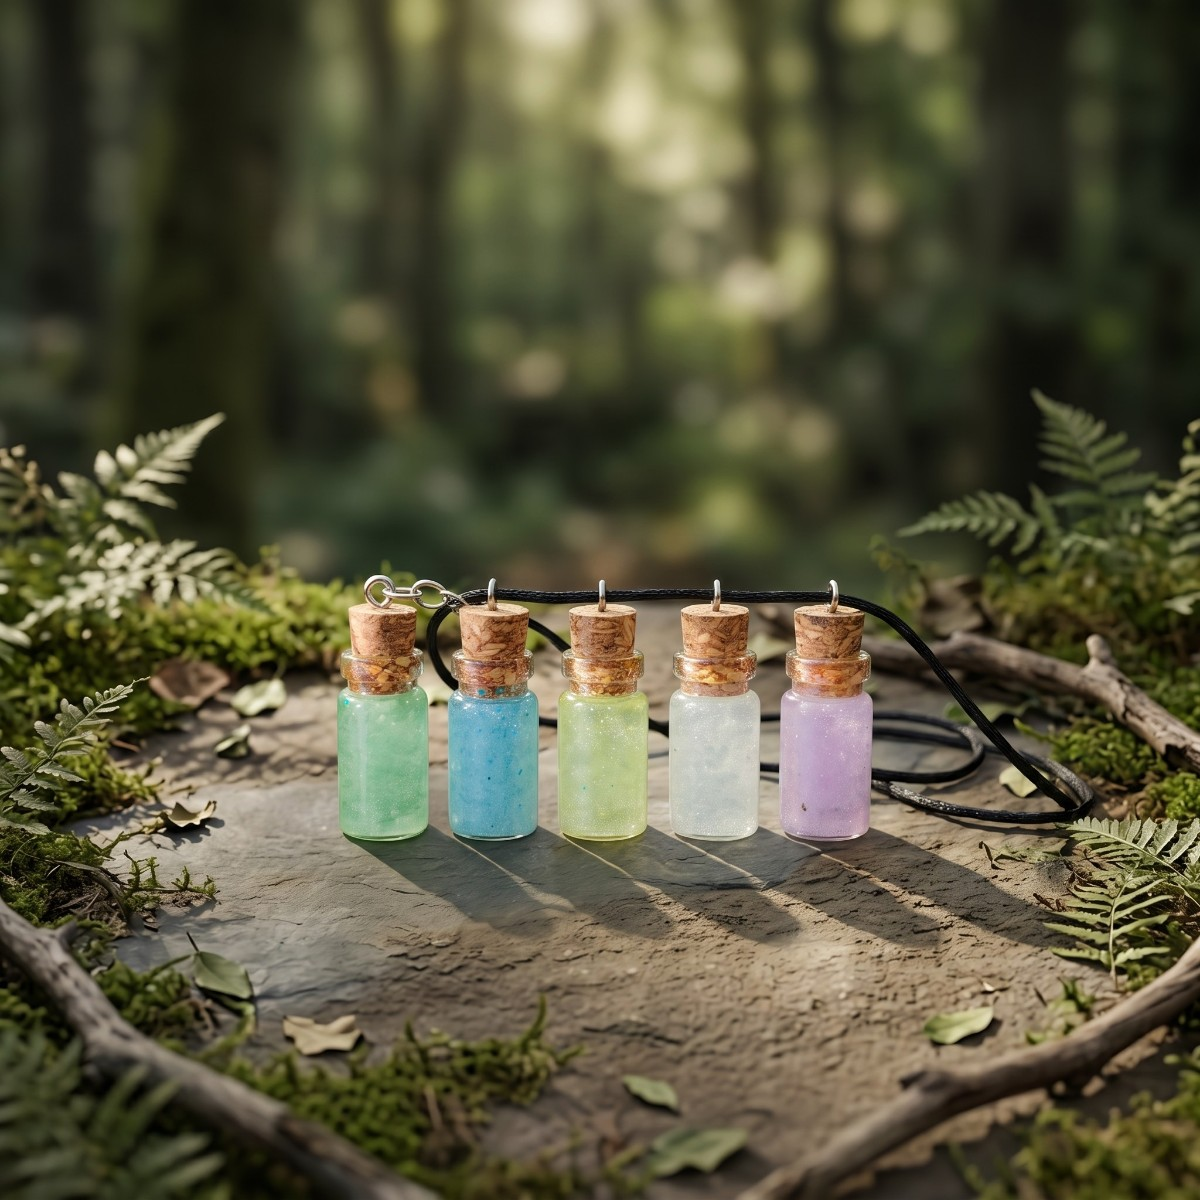
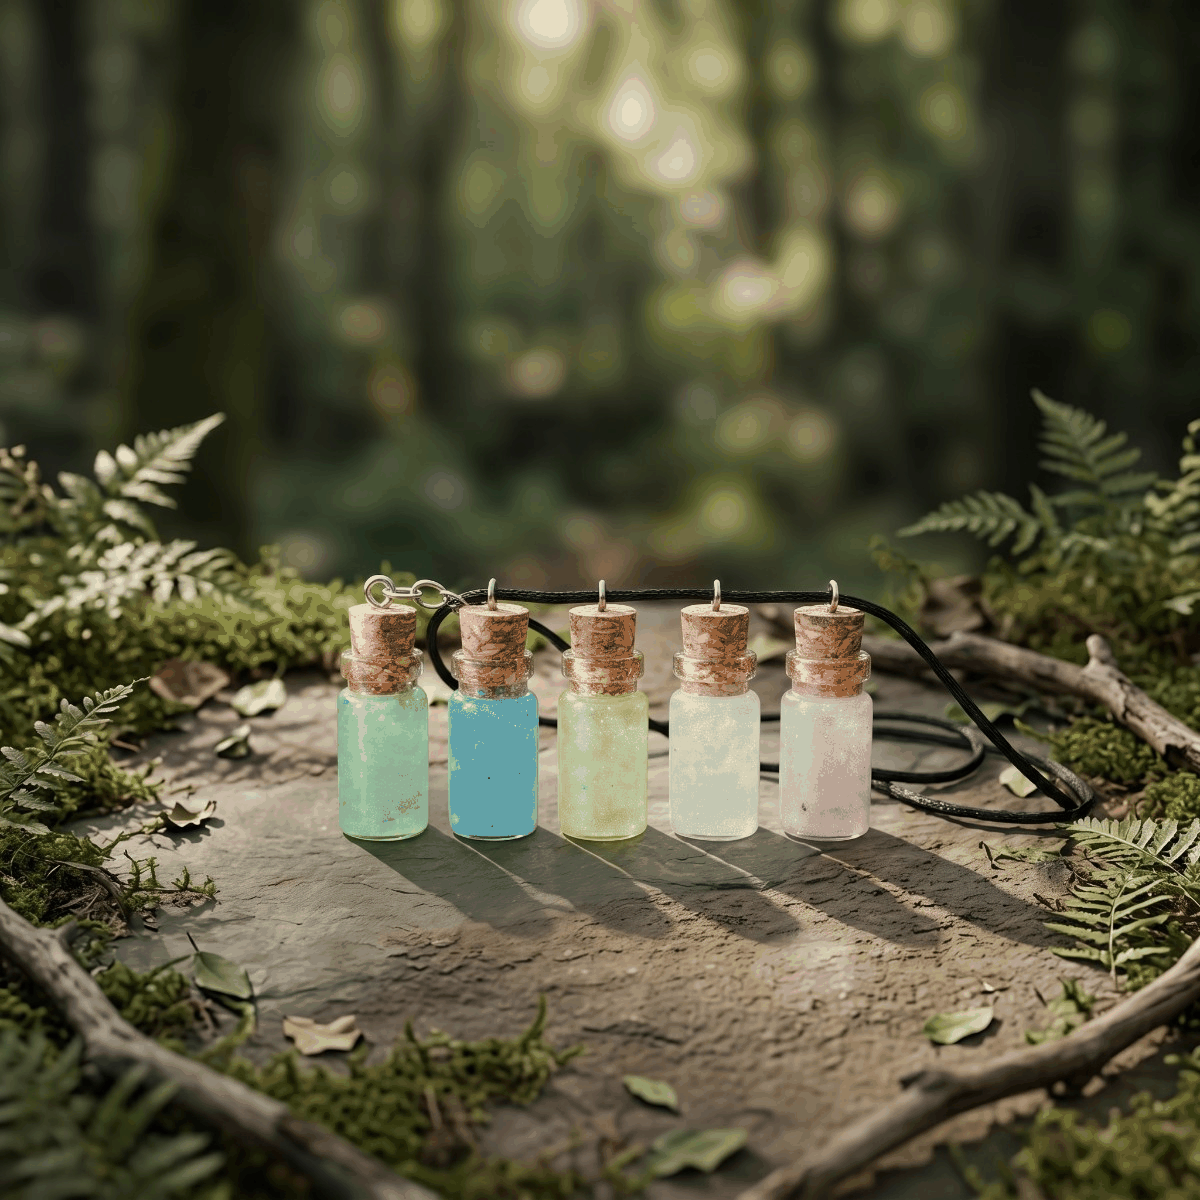
Add files via upload

diff --git a/js/render.js b/js/render.js
@@ -116,6 +116,19 @@ function mediaInicioHTML(seccion, alt){
 function aplicarCabeceraCategoria(id,clave){const d=INICIO&&INICIO[clave];const img=document.getElementById(id);if(!img||!d||!d.imagen)return;img.src=d.imagen;if(d.alt)img.alt=d.alt;}
 // Aviso del huerto (Infusiones / Inciensos / Plantas): enseña la primera FOTO de «Huerto» (panel > Inicio) si existe.
 function aplicarAvisoHuerto(){const a=document.getElementById('aviso-huerto');if(!a)return;const img=a.querySelector('img');if(!img)return;const lista=(INICIO&&INICIO.huerto&&Array.isArray(INICIO.huerto.media))?INICIO.huerto.media:[];const m=lista.find(x=>x&&x.src&&String(x.tipo||'imagen').toLowerCase()==='imagen');if(m){img.src=m.src;img.alt=m.alt||'Mi huerto';img.hidden=false;}else{img.hidden=true;}}
+
+// ---- Portada: bloque «Para empezar» con piezas destacadas (se eligen en el panel con «Destacar en la portada»; si hay menos de 4, se completa solo) ----
+function tarjetaDestacadaHTML(p){const est=etiquetaEstado(p.estado);return `<a class="tarjeta-producto tarjeta-destacada" href="ficha.html?id=${encodeURIComponent(p.id)}"><div class="foto imagen-tarjeta"><img src="${escHTML(imagenProducto(p))}" alt="${escHTML(altProducto(p))}" loading="lazy">${est?`<span class="etiqueta etiqueta-disponible">${escHTML(est)}</span>`:''}</div><div class="info info-tarjeta"><h3>${escHTML(p.nombre||'Producto')}</h3><p class="precio">${precioTexto(p)}</p></div></a>`;}
+function renderDestacados(){const c=document.getElementById('grid-destacados');if(!c)return;
+const ok=p=>p&&p.estado!=='oculto'&&imagenProducto(p)&&!/collage/i.test(imagenProducto(p))&&!['agotado','vendido','vendida'].includes(p.estado)&&p.categoria!=='infusiones'&&p.categoria!=='inciensos';
+const vis=PRODUCTOS.filter(ok);let sel=vis.filter(p=>bool(p.destacado));
+if(sel.length<4){['amuletos','botellitas','pociones','grimorios','mandala'].forEach(cat=>{const x=vis.find(p=>p.categoria===cat&&!sel.includes(p));if(x&&sel.length<6)sel.push(x);});
+for(const x of vis){if(sel.length>=6)break;if(!sel.includes(x))sel.push(x);}}
+sel=sel.slice(0,6);const sec=c.closest('section');if(!sel.length){if(sec)sec.hidden=true;return;}
+c.innerHTML=sel.map(tarjetaDestacadaHTML).join('');}
+// ---- Foto en lugar del emoji en las tarjetas de categoría (usa la primera pieza publicada de cada una) ----
+function fotosCategorias(){const m={'grimorios.html':'grimorios','amuletos.html':'amuletos','pociones.html':'pociones','mandalas.html':'mandala','botellitas.html':'botellitas'};
+document.querySelectorAll('.categoria-card').forEach(a=>{const cat=m[a.getAttribute('href')];if(!cat)return;const lista=PRODUCTOS.filter(x=>(x.categoria===cat||x.categoria===cat+'s')&&x.estado!=='oculto'&&imagenProducto(x));const p=lista.find(x=>!/collage/i.test(imagenProducto(x)))||lista[0];const ic=a.querySelector('.icono');if(!p||!ic)return;const d=document.createElement('div');d.className='cat-foto';d.innerHTML=`<img src="${escHTML(imagenProducto(p))}" alt="" loading="lazy">`;ic.replaceWith(d);a.classList.add('con-foto');});}
 function renderInicio(){
   const map=[['hero','hero-media','Imagen o vídeo del taller o pieza destacada'],['hecho_a_mano','manos-media','Manos trabajando la arcilla'],['personalizacion','personalizacion-media','Pieza personalizada'],['taller','taller-media','Taller o artesana'],['personalizados','personalizados-media','Pieza personalizada'],['huerto','huerto-media','El huerto de Arcilla Hechizada']];
   // Página Personalizados: si no tiene fotos propias, usa las de «Personalización» de la portada.
@@ -130,6 +143,7 @@ function renderInicio(){
     g.querySelector('.inicio-media-next')?.addEventListener('click',()=>show(n+1));
     dots.forEach(d=>d.addEventListener('click',()=>show(Number(d.dataset.index)||0)));
   });
+  renderDestacados();fotosCategorias();
   irAAncla();
 }
 
@@ -179,7 +193,7 @@ meta('name','description',desc);meta('property','og:type','product');meta('prope
 let can=document.head.querySelector('link[rel="canonical"]');if(!can){can=document.createElement('link');can.rel='canonical';document.head.appendChild(can);}can.href=url;
 const ld={'@context':'https://schema.org','@type':'Product',name:p.nombre,description:desc,url};if(img)ld.image=[img];ld.brand={'@type':'Brand',name:'Arcilla Hechizada'};const pr=precioNumero(p);const vendida=['vendido','vendida'].includes(p.estado);if(pr>0){ld.offers={'@type':'Offer',price:pr.toFixed(2),priceCurrency:'EUR',url};if(vendida)ld.offers.availability='https://schema.org/SoldOut';}
 let sc=document.getElementById('ld-producto');if(!sc){sc=document.createElement('script');sc.type='application/ld+json';sc.id='ld-producto';document.head.appendChild(sc);}sc.textContent=JSON.stringify(ld);}catch(e){}}
-function renderFicha(){const id=new URLSearchParams(location.search).get('id')||new URLSearchParams(location.search).get('producto'),c=document.getElementById('ficha-contenido');if(!c)return;if(!id){c.innerHTML='<p class="aviso-pendiente">No se ha indicado ningún producto.</p>';return;}const p=PRODUCTOS.find(x=>x.id===id)||PIEZAS_UNICAS.find(x=>x.id===id);if(!p||p.estado==='oculto'){c.innerHTML='<p class="aviso-pendiente">Este producto todavía no está publicado.</p>';return;}window.PRODUCTO_ACTUAL=p;destinoVolverFicha(p);document.title=`${p.nombre||'Producto'} — Arcilla Hechizada`;seoFicha(p);const est=etiquetaEstado(p.estado),comprable=sePuedeComprar(p);c.innerHTML=`<article class="ficha-producto ficha-universal">${galeriaHTML(p)}<div class="detalles-ficha"><span class="eyebrow">${escHTML(p.categoria||'Pieza artesanal')}</span><h1>${escHTML(p.nombre||'Producto')}</h1><div class="estado-ficha"><span class="etiqueta ${['vendido','vendida'].includes(p.estado)?'etiqueta-vendida':'etiqueta-disponible'}">${escHTML(est)}</span></div><p class="ficha-precio">${precioTexto(p)}</p>${fichaEspecial(p)}${opcionesProducto(p)}${accionesCompra(p)}${comprable?pagosFichaHTML():''}${!comprable?'<p class="aviso-pendiente aviso-no-compra">Este producto no está disponible para compra online en este momento.</p>':''}</div></article>`;
+function renderFicha(){const id=new URLSearchParams(location.search).get('id')||new URLSearchParams(location.search).get('producto'),c=document.getElementById('ficha-contenido');if(!c)return;if(!id){c.innerHTML='<p class="aviso-pendiente">No se ha indicado ningún producto.</p>';return;}const p=PRODUCTOS.find(x=>x.id===id)||PIEZAS_UNICAS.find(x=>x.id===id);if(!p||p.estado==='oculto'){c.innerHTML='<p class="aviso-pendiente">Este producto todavía no está publicado.</p>';return;}window.PRODUCTO_ACTUAL=p;destinoVolverFicha(p);document.title=`${p.nombre||'Producto'} — Arcilla Hechizada`;seoFicha(p);const est=etiquetaEstado(p.estado),comprable=sePuedeComprar(p);c.innerHTML=`<article class="ficha-producto ficha-universal">${galeriaHTML(p)}<div class="detalles-ficha"><span class="eyebrow">${escHTML(p.categoria||'Pieza artesanal')}</span><h1>${escHTML(p.nombre||'Producto')}</h1><div class="ficha-precio-fila"><p class="ficha-precio">${precioTexto(p)}</p>${est?`<span class="etiqueta etiqueta-ficha ${['vendido','vendida'].includes(p.estado)?'etiqueta-vendida':'etiqueta-disponible'}">${escHTML(est)}</span>`:''}</div>${opcionesProducto(p)}${accionesCompra(p)}${!comprable?'<p class="aviso-pendiente aviso-no-compra">Este producto no está disponible para compra online en este momento.</p>':''}${fichaEspecial(p)}${comprable?pagosFichaHTML():''}</div></article>`;
  c.querySelectorAll('.miniatura').forEach(m=>m.addEventListener('click',()=>{const im=c.querySelector('#foto-principal-ficha');if(im)im.src=m.dataset.foto;c.querySelectorAll('.miniatura').forEach(x=>x.classList.remove('activa'));m.classList.add('activa');}));
  if(comprable){let cantidad=1;const cv=c.querySelector('#cantidad-valor');const menos=c.querySelector('#cantidad-menos');const mas=c.querySelector('#cantidad-mas');if(cv&&menos&&mas){menos.addEventListener('click',()=>{cantidad=Math.max(1,cantidad-1);cv.textContent=cantidad;});mas.addEventListener('click',()=>{cantidad++;cv.textContent=cantidad;});}document.getElementById('btn-carrito').addEventListener('click',()=>{if(!comprobarEleccion(document.getElementById('ficha-contenido')))return;añadirAlCarrito(p,opcionesSeleccionadas(),cantidad);});document.querySelectorAll('#ficha-contenido select[data-tipo],#ficha-contenido input[data-tipo]').forEach(e=>{e.addEventListener('change',actualizarPedido);e.addEventListener('input',actualizarPedido);});actualizarPedido();}
 }

diff --git a/js/main.js b/js/main.js
@@ -91,26 +91,31 @@ function construirNavegacionTienda() {
     ['Mandalas','mandalas.html'], ['Botellitas','botellitas.html'], ['Infusiones','infusiones.html'],
     ['Inciensos','inciensos.html'], ['Plantas / Semillas','plantas-semillas.html'], ['Opiniones','opiniones.html']
   ];
-  document.querySelectorAll('nav.principal').forEach(function(nav) {
-    if (nav.querySelector('.menu-tienda')) return;
-    var tienda = Array.from(nav.children).find(function(a){ return a.tagName === 'A' && a.getAttribute('href') === 'tienda.html'; });
-    if (!tienda) return;
-    // «Tienda» lleva a la página principal; la flecha ▾ abre/cierra las categorías.
-    // (No usar preventDefault en el enlace «Tienda»: si se añade, el enlace deja de llevar a inicio.)
+  function desplegable(nav, original, texto, href, items, etiquetaAria){
     var wrap = document.createElement('div'); wrap.className='menu-tienda';
-    var link = document.createElement('a'); link.href='index.html'; link.textContent='Tienda'; link.className='tienda-trigger';
+    var link = document.createElement('a'); link.href=href; link.textContent=texto; link.className='tienda-trigger';
     var flecha = document.createElement('button'); flecha.type='button'; flecha.className='tienda-flecha'; flecha.textContent='⌄';
-    flecha.setAttribute('aria-label','Mostrar las categorías de la tienda'); flecha.setAttribute('aria-haspopup','true'); flecha.setAttribute('aria-expanded','false');
+    flecha.setAttribute('aria-label',etiquetaAria); flecha.setAttribute('aria-haspopup','true'); flecha.setAttribute('aria-expanded','false');
     var sub = document.createElement('div'); sub.className='submenu-tienda';
-    cats.forEach(function(c){ var a=document.createElement('a'); a.href=c[1]; a.textContent=c[0]; sub.appendChild(a); });
-    wrap.appendChild(link); wrap.appendChild(flecha); wrap.appendChild(sub); nav.replaceChild(wrap,tienda);
+    items.forEach(function(c){ var a=document.createElement('a'); a.href=c[1]; a.textContent=c[0]; sub.appendChild(a); });
+    wrap.appendChild(link); wrap.appendChild(flecha); wrap.appendChild(sub); nav.replaceChild(wrap,original);
     wrap.addEventListener('mouseenter', function(){ flecha.setAttribute('aria-expanded','true'); });
     wrap.addEventListener('mouseleave', function(){ if(!wrap.classList.contains('abierto')) flecha.setAttribute('aria-expanded','false'); });
     flecha.addEventListener('focus', function(){ flecha.setAttribute('aria-expanded','true'); });
     flecha.addEventListener('click', function(e){ e.preventDefault(); var abierto = wrap.classList.toggle('abierto'); flecha.setAttribute('aria-expanded', abierto ? 'true' : 'false'); });
     wrap.addEventListener('focusout', function(e){ if(!wrap.contains(e.relatedTarget) && !wrap.classList.contains('abierto')) flecha.setAttribute('aria-expanded','false'); });
     document.addEventListener('click', function(e){ if(!wrap.contains(e.target)){ wrap.classList.remove('abierto'); flecha.setAttribute('aria-expanded','false'); } });
-    if(!nav.querySelector('a[href="reserva-de-llamada.html"]')){var rv=document.createElement('a'); rv.href='reserva-de-llamada.html'; rv.textContent='Reserva una llamada'; var ct=Array.from(nav.children).find(function(a){return a.tagName==='A' && a.getAttribute('href')==='contacto.html';}); if(ct) nav.insertBefore(rv,ct); else nav.appendChild(rv);}
+  }
+  var ayuda = [['Envíos y recogida','envios-y-recogida.html'],['Preguntas frecuentes','faq.html'],['Opiniones','opiniones.html'],['Para tiendas','para-tiendas.html'],['Contacto','contacto.html']];
+  document.querySelectorAll('nav.principal').forEach(function(nav) {
+    if (nav.querySelector('.menu-tienda')) return;
+    var tienda = Array.from(nav.children).find(function(a){ return a.tagName === 'A' && a.getAttribute('href') === 'tienda.html'; });
+    if (!tienda) return;
+    // «Tienda» lleva a la página principal; la flecha ▾ abre/cierra las categorías.
+    // (No usar preventDefault en el enlace «Tienda»: si se añade, el enlace deja de llevar a inicio.)
+    desplegable(nav, tienda, 'Tienda', 'index.html', cats, 'Mostrar las categorías de la tienda');
+    var ay = nav.querySelector('a[data-grupo="ayuda"]');
+    if (ay) desplegable(nav, ay, 'Ayuda', 'faq.html', ayuda, 'Mostrar el menú de ayuda');
     var cart=document.createElement('a'); cart.href='carrito.html'; cart.className='enlace-carrito'; cart.innerHTML='🛒 Carrito <span id="contador-carrito">0</span>'; nav.parentElement.appendChild(cart);
   });
   document.querySelectorAll('.menu-movil').forEach(function(menu){
@@ -129,7 +134,6 @@ function construirNavegacionTienda() {
     d.appendChild(lista);
     fl.addEventListener('click',function(){var ab=lista.hidden; lista.hidden=!ab; d.classList.toggle('abierto',ab); fl.setAttribute('aria-expanded',ab?'true':'false');});
     menu.replaceChild(d,tienda);
-    if(!menu.querySelector('a[href="reserva-de-llamada.html"]')){var rvm=document.createElement('a'); rvm.href='reserva-de-llamada.html'; rvm.textContent='Reserva una llamada'; var ctm=Array.from(menu.children).find(function(a){return a.tagName==='A' && a.getAttribute('href')==='contacto.html';}); if(ctm) menu.insertBefore(rvm,ctm); else menu.appendChild(rvm);}
     var cart=document.createElement('a');cart.href='carrito.html';cart.className='enlace-carrito-movil';cart.textContent='🛒 Carrito';menu.insertBefore(cart,menu.firstChild);
   });
   var n=0; try{n=JSON.parse(localStorage.getItem('arcillaHechizadaCarrito')||'[]').reduce(function(t,i){return t+(Number(i.cantidad)||0);},0);}catch(e){} document.querySelectorAll('#contador-carrito').forEach(function(e){e.textContent=n;});

diff --git a/css/style.css b/css/style.css
@@ -808,3 +808,49 @@ main.contenedor>.volver-atras-barra{padding-top:0}
 .opi-pie{text-align:center;margin-top:18px}
 .opi-pie a{font-weight:600}
 .opi-slide{background:var(--blanco);border:1px solid var(--linea);border-radius:var(--radio-tarjeta);padding:22px}
+
+
+/* ============ Mejoras aprobadas (nov 2026) ============ */
+/* Ficha: precio + etiqueta juntos; opciones y botón de compra a la vista; WhatsApp/correo en segundo plano */
+.ficha-precio-fila{display:flex;align-items:center;gap:12px;flex-wrap:wrap;margin:6px 0 4px}
+.ficha-precio-fila .ficha-precio{margin:0}
+.etiqueta.etiqueta-ficha{position:static}
+.ficha-universal .opciones-ficha{padding:12px 14px;margin-top:12px}
+.ficha-universal .opciones-ficha h3{font-size:1rem;margin:0 0 4px}
+.ficha-universal .opciones-ficha p{margin:4px 0 0;font-size:.92rem}
+.ficha-universal .campo-opcion{margin-top:8px}
+.ficha-botones-tienda{margin-top:16px;gap:10px}
+.ficha-botones-tienda .btn-carrito{flex:1 1 100%;padding:14px 18px;font-size:1.05rem;justify-content:center;text-align:center;cursor:pointer}
+.ficha-botones-tienda .btn-whatsapp-producto,.ficha-botones-tienda .btn-secundario{flex:1 1 auto;padding:9px 14px;font-size:.9rem;justify-content:center;text-align:center}
+.ficha-botones-tienda .btn-whatsapp-producto{background:transparent;color:var(--oliva);border:1px solid var(--oliva)}
+.ficha-universal .ficha-detalle:first-of-type,.ficha-universal .ficha-acordeon:first-of-type{margin-top:28px}
+
+/* Tarjetas de listado: precio justo bajo el nombre, texto con la misma altura y opciones/botón alineados abajo */
+.tarjeta-producto .precio{margin-top:2px;padding-top:2px}
+.tarjeta-producto .info p:not(.precio){display:-webkit-box;-webkit-line-clamp:4;-webkit-box-orient:vertical;overflow:hidden;margin-top:8px}
+@supports (grid-template-rows: subgrid){
+  .grid-productos{row-gap:0}
+  .grid-productos>.producto-item{display:grid;grid-row:span 2;grid-template-rows:subgrid;gap:0;margin-bottom:28px}
+  .grid-productos>.producto-item>.tarjeta-producto{margin-bottom:10px}
+  .grid-productos>.producto-item>.tarjeta-acciones{justify-content:flex-end}
+}
+
+/* Categorías con foto */
+.categoria-card.con-foto{padding:0;overflow:hidden;transition:box-shadow .3s ease,transform .3s ease}
+.categoria-card.con-foto:hover{box-shadow:0 14px 30px rgba(58,51,44,.12);transform:translateY(-3px)}
+.categoria-card .cat-foto{aspect-ratio:4/3;overflow:hidden;background:var(--beige)}
+.categoria-card .cat-foto img{width:100%;height:100%;object-fit:cover;display:block;transition:transform .5s ease}
+.categoria-card.con-foto:hover .cat-foto img{transform:scale(1.05)}
+.categoria-card.con-foto h3{padding:12px 10px 14px}
+.grid-categorias .categoria-card:not(.con-foto){display:flex;flex-direction:column;justify-content:center;align-items:center}
+
+/* Portada: piezas destacadas */
+.grid-destacados{display:grid;grid-template-columns:repeat(2,1fr);gap:14px}
+@media(min-width:700px){.grid-destacados{grid-template-columns:repeat(3,1fr);gap:24px}}
+.tarjeta-destacada{text-decoration:none;color:inherit}
+.tarjeta-destacada .info{padding:14px 16px}
+.tarjeta-destacada h3{font-size:1.02rem}
+.destacados-cta{margin-top:28px;text-align:center}
+/* Ficha: el nombre del grupo hace de etiqueta (evita repetirlo) */
+.ficha-universal .opciones-ficha .campo-opcion label:not([for^="personalizacion-"]):not([for="input-otro-color"]){position:absolute;width:1px;height:1px;overflow:hidden;clip:rect(0 0 0 0);white-space:nowrap}
+.ficha-universal .opciones-ficha .campo-opcion{margin-top:6px}

diff --git a/scripts/generar-productos.py b/scripts/generar-productos.py
@@ -47,7 +47,7 @@ print(f"Catálogo generado: {len(productos)} producto(s).")
 BASE = "https://www.arcillahechizada.com"
 PAGINAS = [
     "", "tienda", "amuletos", "botellitas", "pociones", "grimorios", "mandalas",
-    "piezas-unicas", "personalizados", "el-taller", "envios-y-recogida",
+    "piezas-unicas", "personalizados", "eventos", "el-taller", "envios-y-recogida",
     "reserva-de-llamada", "opiniones", "faq", "para-tiendas", "contacto",
     "condiciones-de-compra", "aviso-legal", "privacidad", "cookies",
 ]
